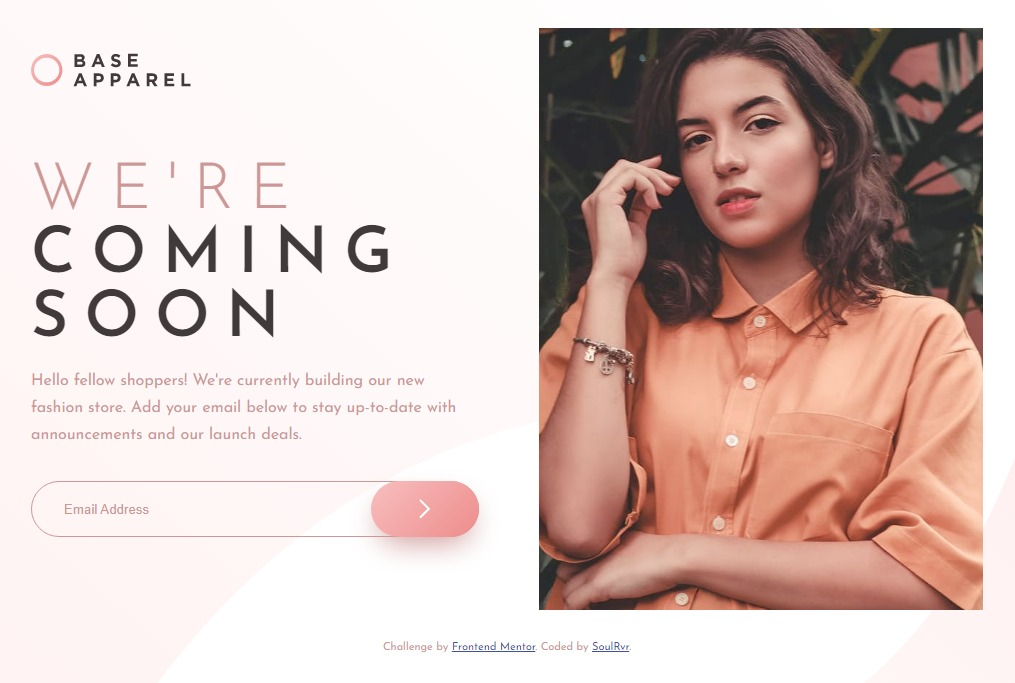
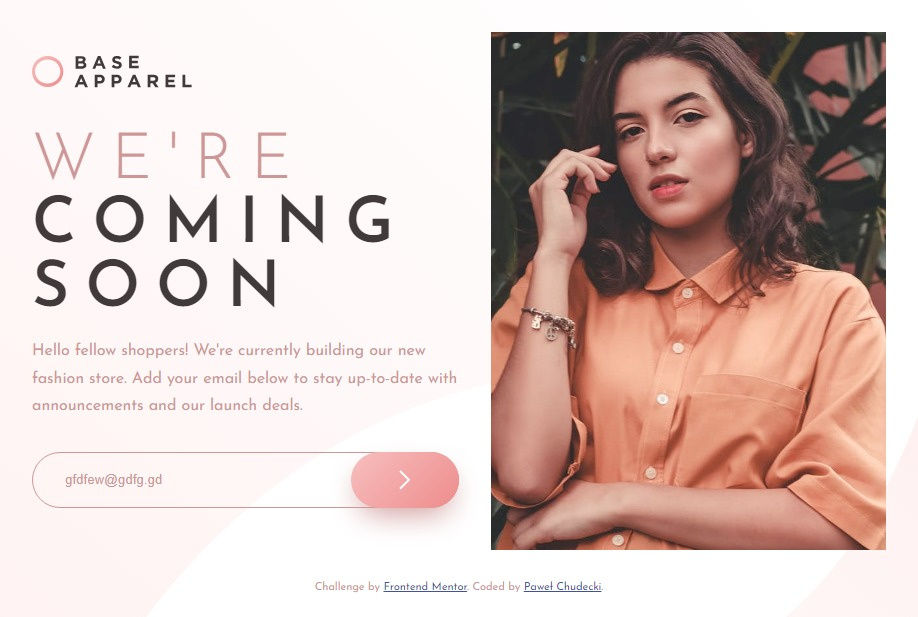
regex, footer, screenshot - update

diff --git a/script.js b/script.js
@@ -4,7 +4,7 @@ const submitButton = document.querySelector(".submitButton");
 const emailAddress = document.querySelector("#emailAddress");
 const input = document.querySelector("input");
 const okMessage = document.querySelector(".okMessage");
-const emailFormat = new RegExp("[A-Za-z0-9._+-]+@[A-Za-z0-9 -]+.[a-z]{2,}");
+const emailFormat = new RegExp("^[a-zA-Z0-9_.+-]+@[a-zA-Z0-9-]+[.][a-zA-Z0-9-.]+$");
 
 submitButton.addEventListener("click", function () {
   var email = emailAddress.value;

diff --git a/index.html b/index.html
@@ -65,7 +65,9 @@
         <a href="https://www.frontendmentor.io?ref=challenge" target="_blank"
           >Frontend Mentor</a
         >. Coded by
-        <a href="https://www.frontendmentor.io/profile/SoulRvr29">SoulRvr</a>.
+        <a href="https://www.frontendmentor.io/profile/SoulRvr29"
+          >Paweł Chudecki</a
+        >.
       </footer>
     </div>
     <div class="okMessage">SUBSCRIBED</div>
